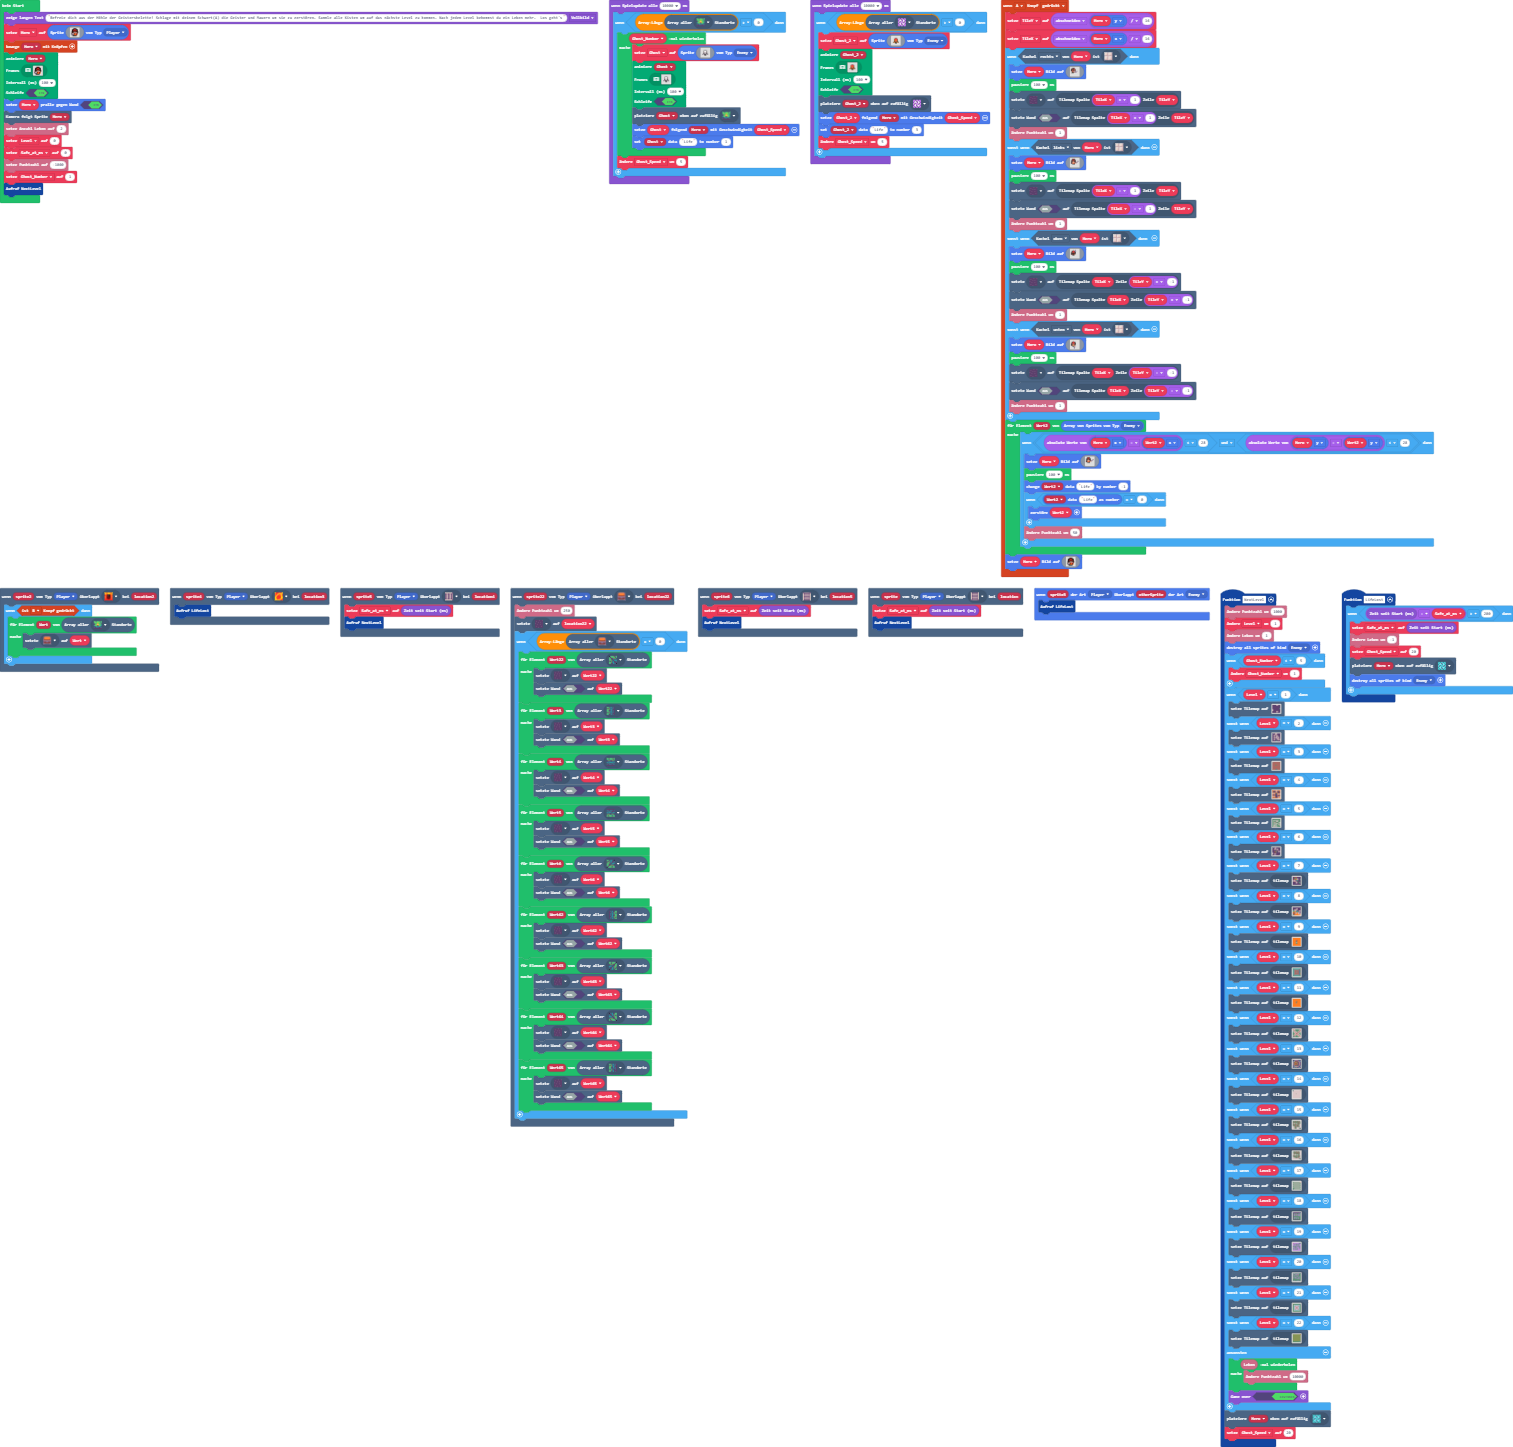
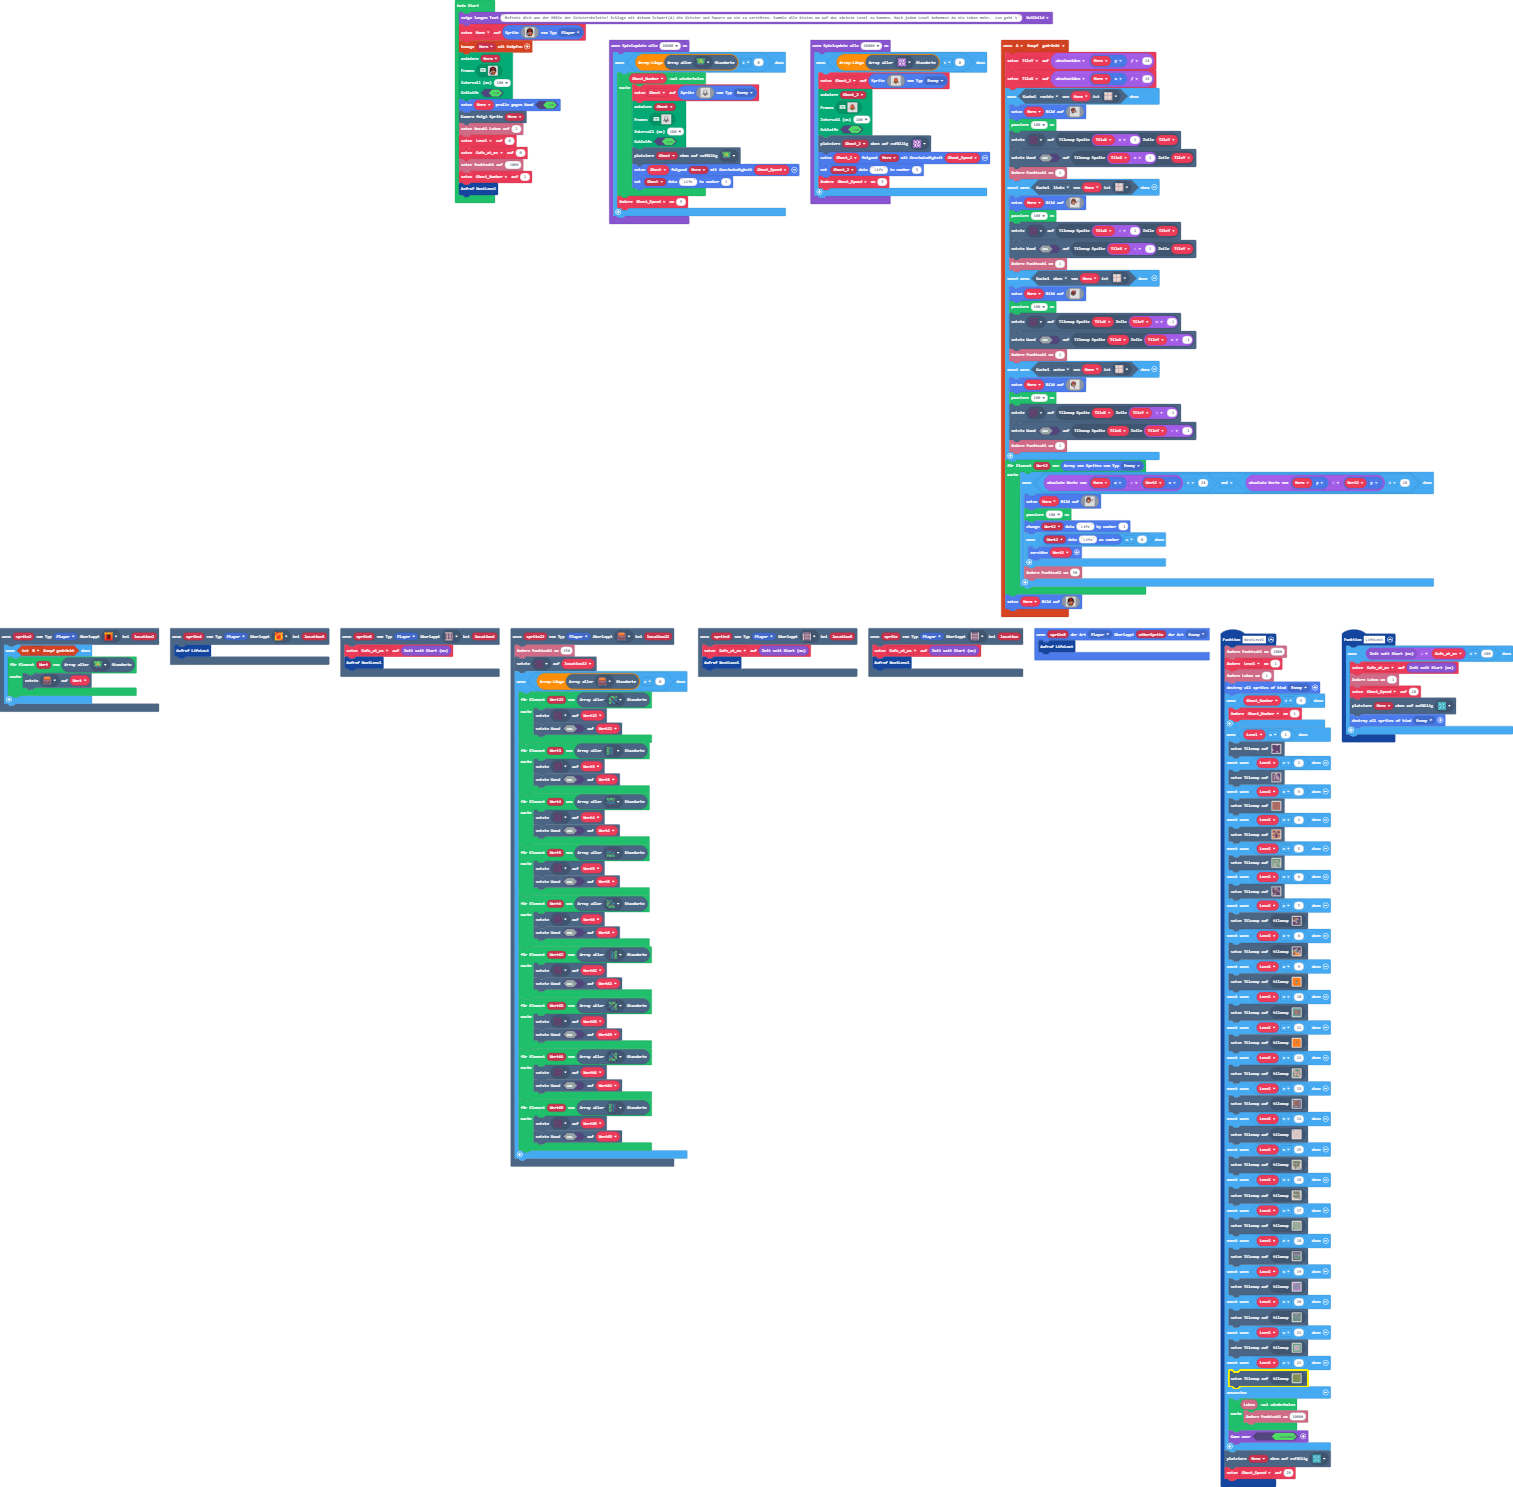
Aktualisiere main.blocks, main.ts, tilemap.g.jres, tilemap.g.ts, images.g.jres, images.g.ts, main.py

Changed region(s): [[0.0, 0.0, 1.0, 0.9952]]

diff --git a/tilemap.g.ts b/tilemap.g.ts
@@ -393,25 +393,6 @@ namespace myTiles {
 . . . . . . . . . . . . . . . . 
 . . . . . . . . . . . . . . . . 
 `, [myTiles.transparency16,myTiles.tile2,myTiles.tile3,sprites.dungeon.greenOuterNorth2,sprites.dungeon.stairNorth,sprites.dungeon.greenOuterSouthEast,sprites.dungeon.greenOuterSouthWest,sprites.dungeon.greenOuterWest0,sprites.dungeon.greenOuterEast0,sprites.dungeon.collectibleInsignia,sprites.dungeon.greenOuterSouth0], TileScale.Sixteen);
-            case "Level20":
-            case "Level20":return tiles.createTilemap(hex`1000100000000000000000000000000000000000000000000000000000000000000000000000000000000000000000000000000000000000000000000000000000000000000000000000000000000000000000000000000000000000000000000000000000000000000000000000000000000000000000000000000000000000000000000000000000000000000000000000000000000000000000000000000000000000000000000000000000000000000000000000000000000000000000000000000000000000000000000000000000000000000000000000000000000000000000000000000000000000000000000000000000000000000000000000000000000000`, img`
-. . . . . . . . . . . . . . . . 
-. . . . . . . . . . . . . . . . 
-. . . . . . . . . . . . . . . . 
-. . . . . . . . . . . . . . . . 
-. . . . . . . . . . . . . . . . 
-. . . . . . . . . . . . . . . . 
-. . . . . . . . . . . . . . . . 
-. . . . . . . . . . . . . . . . 
-. . . . . . . . . . . . . . . . 
-. . . . . . . . . . . . . . . . 
-. . . . . . . . . . . . . . . . 
-. . . . . . . . . . . . . . . . 
-. . . . . . . . . . . . . . . . 
-. . . . . . . . . . . . . . . . 
-. . . . . . . . . . . . . . . . 
-. . . . . . . . . . . . . . . . 
-`, [myTiles.transparency16], TileScale.Sixteen);
             case "Level_21":
[1 lines of base64/hex data omitted]
 . . . . . . . . . . . . . 2 . 2 
@@ -431,8 +412,46 @@ namespace myTiles {
 . . . . . . . . . . . . . . . . 
 . . . . . . . . . . . . . . . . 
 `, [myTiles.transparency16,myTiles.tile1,myTiles.tile2,myTiles.tile3,sprites.dungeon.collectibleInsignia,sprites.dungeon.chestClosed,sprites.dungeon.greenOuterNorth2,sprites.dungeon.stairNorth,sprites.dungeon.greenOuterSouthEast,sprites.dungeon.greenOuterSouth0,sprites.dungeon.greenOuterSouthWest,sprites.dungeon.greenOuterWest0,sprites.dungeon.greenOuterEast0], TileScale.Sixteen);
-            case "Level_22":
-            case "Level_22":return tiles.createTilemap(hex`1000100000000000000000000000000000000000000000000000000000000000000000000000000000000000000000000000000000000000000000000000000000000000000000000000000000000000000000000000000000000000000000000000000000000000000000000000000000000000000000000000000000000000000000000000000000000000000000000000000000000000000000000000000000000000000000000000000000000000000000000000000000000000000000000000000000000000000000000000000000000000000000000000000000000000000000000000000000000000000000000000000000000000000000000000000000000000`, img`
+            case "Level21":
+            case "Level21":return tiles.createTilemap(hex`1000100000000000000000000000000000000000000000000000000000000000000000000000000000000000000000000000000000000000000000000000000000000000000000000000000000000000000000000000000000000000000000000000000000000000000000000000000000000000000000000000000000000000000000000000000000000000000000000000000000000000000000000000000000000000000000000000000000000000000000000000000000000000000000000000000000000000000000000000000000000000000000000000000000000000000000000000000000000000000000000000000000000000000000000000000000000000`, img`
+. . . . . . . . . . . . . . . . 
+. . . . . . . . . . . . . . . . 
+. . . . . . . . . . . . . . . . 
+. . . . . . . . . . . . . . . . 
+. . . . . . . . . . . . . . . . 
+. . . . . . . . . . . . . . . . 
+. . . . . . . . . . . . . . . . 
+. . . . . . . . . . . . . . . . 
+. . . . . . . . . . . . . . . . 
+. . . . . . . . . . . . . . . . 
+. . . . . . . . . . . . . . . . 
+. . . . . . . . . . . . . . . . 
+. . . . . . . . . . . . . . . . 
+. . . . . . . . . . . . . . . . 
+. . . . . . . . . . . . . . . . 
+. . . . . . . . . . . . . . . . 
+`, [], -Infinity);
+            case "Level20":
+            case "Level20":return tiles.createTilemap(hex`1000100000000000000000000000000000000000000000000000000000000000000000000000000000000000000000000000000000000000000000000000000000000000000000000000000000000000000000000000000000000000000000000000000000000000000000000000000000000000000000000000000000000000000000000000000000000000000000000000000000000000000000000000000000000000000000000000000000000000000000000000000000000000000000000000000000000000000000000000000000000000000000000000000000000000000000000000000000000000000000000000000000000000000000000000000000000000`, img`
+. . . . . . . . . . . . . . . . 
+. . . . . . . . . . . . . . . . 
+. . . . . . . . . . . . . . . . 
+. . . . . . . . . . . . . . . . 
+. . . . . . . . . . . . . . . . 
+. . . . . . . . . . . . . . . . 
+. . . . . . . . . . . . . . . . 
+. . . . . . . . . . . . . . . . 
+. . . . . . . . . . . . . . . . 
+. . . . . . . . . . . . . . . . 
+. . . . . . . . . . . . . . . . 
+. . . . . . . . . . . . . . . . 
+. . . . . . . . . . . . . . . . 
+. . . . . . . . . . . . . . . . 
+. . . . . . . . . . . . . . . . 
+. . . . . . . . . . . . . . . . 
+`, [], -Infinity);
+            case "Level22":
+            case "Level22":return tiles.createTilemap(hex`1000100000000000000000000000000000000000000000000000000000000000000000000000000000000000000000000000000000000000000000000000000000000000000000000000000000000000000000000000000000000000000000000000000000000000000000000000000000000000000000000000000000000000000000000000000000000000000000000000000000000000000000000000000000000000000000000000000000000000000000000000000000000000000000000000000000000000000000000000000000000000000000000000000000000000000000000000000000000000000000000000000000000000000000000000000000000000`, img`
 . . . . . . . . . . . . . . . . 
 . . . . . . . . . . . . . . . . 
 . . . . . . . . . . . . . . . . 
@@ -450,7 +469,7 @@ namespace myTiles {
 . . . . . . . . . . . . . . . . 
 . . . . . . . . . . . . . . . . 
 `, [myTiles.transparency16], TileScale.Sixteen);
-            case "Level_0":
+            case "Level_22":
             case "Level24":return tiles.createTilemap(hex`1000100007070707070707070707070707070701070202020202020202020202020202020707070707070707070707070707070702020202020202020202020202020207070707070707070707070707070707070702020202020202020202020202020207070707070707070707070707070707020202020202020202020202020202070707070707070707070707070707070707020202020202020202020202020202070707070707070707070707070707070202020202020202020202020202020707070707070707070707070707070707070202020202020202020202020202020707070707070707070707070707050607070707070707070707070707080403`, img`
 . . . . . . . . . . . . . . . . 
 . 2 2 2 2 2 2 2 2 2 2 2 2 2 2 2 
@@ -469,6 +488,25 @@ namespace myTiles {
 . . . . . . . . . . . . . . 2 2 
 . . . . . . . . . . . . . . 2 . 
 `, [myTiles.transparency16,myTiles.tile2,myTiles.tile4,sprites.dungeon.stairSouth,sprites.dungeon.greenOuterWest0,sprites.dungeon.greenOuterNorthWest,sprites.dungeon.greenOuterNorth0,sprites.dungeon.greenOuterNorth2,sprites.dungeon.collectibleInsignia], TileScale.Sixteen);
+            case "Level23":
+            case "Level23":return tiles.createTilemap(hex`1000100000000000000000000000000000000000000000000000000000000000000000000000000000000000000000000000000000000000000000000000000000000000000000000000000000000000000000000000000000000000000000000000000000000000000000000000000000000000000000000000000000000000000000000000000000000000000000000000000000000000000000000000000000000000000000000000000000000000000000000000000000000000000000000000000000000000000000000000000000000000000000000000000000000000000000000000000000000000000000000000000000000000000000000000000000000000`, img`
+. . . . . . . . . . . . . . . . 
+. . . . . . . . . . . . . . . . 
+. . . . . . . . . . . . . . . . 
+. . . . . . . . . . . . . . . . 
+. . . . . . . . . . . . . . . . 
+. . . . . . . . . . . . . . . . 
+. . . . . . . . . . . . . . . . 
+. . . . . . . . . . . . . . . . 
+. . . . . . . . . . . . . . . . 
+. . . . . . . . . . . . . . . . 
+. . . . . . . . . . . . . . . . 
+. . . . . . . . . . . . . . . . 
+. . . . . . . . . . . . . . . . 
+. . . . . . . . . . . . . . . . 
+. . . . . . . . . . . . . . . . 
+. . . . . . . . . . . . . . . . 
+`, [], -Infinity);
         }
         return null;
     })

diff --git a/main.ts b/main.ts
@@ -156,7 +156,7 @@ function NextLevel () {
     } else if (Level == 21) {
         tiles.setCurrentTilemap(tilemap`Level_21`)
     } else if (Level == 22) {
-        tiles.setCurrentTilemap(tilemap`Level_0`)
+        tiles.setCurrentTilemap(tilemap`Level_22`)
     } else {
         for (let index = 0; index < info.life(); index++) {
             info.changeScoreBy(10000)

diff --git a/images.g.ts b/images.g.ts
@@ -370,8 +370,7 @@ fcf.f222222f44ee........
 
     helpers._registerFactory("song", function(name: string) {
         switch(helpers.stringTrim(name)) {
-            case "song1":
-            case "meinLied":return hex`00780004080200`;
+
         }
         return null;
     })

diff --git a/main.py b/main.py
@@ -1,3 +1,103 @@
+
+Ghost_2: Sprite = None
+Ghost: Sprite = None
+Ghost_Speed = 0
+TileX = 0
+TileY = 0
+Ghost_Number = 0
+Safe_at_ms = 0
+Level = 0
+Hero: Sprite = None
+game.show_long_text("Befreie dich aus der Höhle der Geisterskelette! Schlage mit deinem Schwert(A) die Geister und Mauern um sie zu zerstören. Sammle alle Kisten um auf das nächste Level zu kommen. Nach jedem Level bekommst du ein Leben mehr.  Los geht´s",
+    DialogLayout.FULL)
+Hero = sprites.create(assets.image("""
+    Normal
+"""), SpriteKind.player)
+controller.move_sprite(Hero)
+animation.run_image_animation(Hero,
+    [img("""
+            . . . . . . f f f f . . . . . .
+                . . . . f f f 2 2 f f f . . . .
+                . . . f f f 2 2 2 2 f f f . . .
+                . . f f f e e e e e e f f f . .
+                . . f f e 2 2 2 2 2 2 e e f . .
+                . . f e 2 f f f f f f 2 e f . .
+                . . f f f f e e e e f f f f . .
+                . f f e f b f 4 4 f b f e f f .
+                . f e e 4 1 f d d f 1 4 e e f .
+                . . f f f f d d d d d e e f . .
+                . f d d d d f 4 4 4 e e f . . .
+                . f b b b b f 2 2 2 2 f 4 e . .
+                . f b b b b f 2 2 2 2 f d 4 . .
+                . . f c c f 4 5 5 4 4 f 4 4 . .
+                . . . f f f f f f f f . . . . .
+                . . . . . f f . . f f . . . . .
+        """),
+        img("""
+            . . . . . . . . . . . . . . . .
+                . . . . . . f f f f . . . . . .
+                . . . . f f f 2 2 f f f . . . .
+                . . . f f f 2 2 2 2 f f f . . .
+                . . f f f e e e e e e f f f . .
+                . . f f e 2 2 2 2 2 2 e e f . .
+                . f f e 2 f f f f f f 2 e f f .
+                . f f f f f e e e e f f f f f .
+                . . f e f b f 4 4 f b f e f . .
+                . f f e 4 1 f d d f 1 4 e f . .
+                f d f f e 4 d d d d 4 e f e . .
+                f b f e f 2 2 2 2 e d d 4 e . .
+                f b f 4 f 2 2 2 2 e d d e . . .
+                f c f . f 4 4 5 5 f e e . . . .
+                . f f . f f f f f f f . . . . .
+                . . . . f f f . . . . . . . . .
+        """),
+        img("""
+            . . . . . . . . . . . . . . . .
+                . . . . . . f f f f . . . . . .
+                . . . . f f f 2 2 f f f . . . .
+                . . . f f f 2 2 2 2 f f f . . .
+                . . f f f e e e e e e f f f . .
+                . . f e e 2 2 2 2 2 2 e f f . .
+                . f f e 2 f f f f f f 2 e f f .
+                . f f f f f e e e e f f f f f .
+                . . f e f b f 4 4 f b f e f . .
+                . . f e 4 1 f d d f 1 4 e f . .
+                . . e f f f f d d d 4 e f . . .
+                . . f d d d d f 2 2 2 f e f . .
+                . . f b b b b f 2 2 2 f 4 e . .
+                . . f b b b b f 5 4 4 f . . . .
+                . . . f c c f f f f f f . . . .
+                . . . . f f . . . f f f . . . .
+        """),
+        img("""
+            . . . . . . . . . . . . . . . .
+                . . . . . . f f f f . . . . . .
+                . . . . f f f 2 2 f f f . . . .
+                . . . f f f 2 2 2 2 f f f . . .
+                . . f f f e e e e e e f f f . .
+                . . f e e 2 2 2 2 2 2 e f f . .
+                . f f e 2 f f f f f f 2 e f f .
+                . f f f f f e e e e f f f f f .
+                . . f e f b f 4 4 f b f e f . .
+                . . f e 4 1 f d d f 1 4 e f f .
+                . . e f e 4 d d d d 4 e f f d f
+                . . e 4 d d e 2 2 2 2 f e f b f
+                . . . e d d e 2 2 2 2 f 4 f b f
+                . . . . e e f 5 5 4 4 f . f c f
+                . . . . . f f f f f f f . f f .
+                . . . . . . . . . f f f . . . .
+        """)],
+    100,
+    True)
+Hero.set_bounce_on_wall(True)
+scene.camera_follow_sprite(Hero)
+info.set_life(2)
+Level = 0
+Safe_at_ms = 0
+info.set_score(-1000)
+Ghost_Number = 1
+NextLevel()
+
 def on_overlap_tile(sprite, location):
     global Safe_at_ms
     Safe_at_ms = game.runtime()
@@ -225,9 +325,7 @@ def NextLevel():
             Level_21
         """))
     elif Level == 22:
-        tiles.set_current_tilemap(tilemap("""
-            Level_0
-        """))
+        tiles.set_current_tilemap(tilemap("""Level_0"""))
     else:
         for index in range(info.life()):
             info.change_score_by(10000)
@@ -250,105 +348,6 @@ def on_overlap_tile6(sprite4, location3):
 scene.on_overlap_tile(SpriteKind.player,
     sprites.dungeon.hazard_lava0,
     on_overlap_tile6)
-
-Ghost_2: Sprite = None
-Ghost: Sprite = None
-Ghost_Speed = 0
-TileX = 0
-TileY = 0
-Ghost_Number = 0
-Safe_at_ms = 0
-Level = 0
-Hero: Sprite = None
-game.show_long_text("Befreie dich aus der Höhle der Geisterskelette! Schlage mit deinem Schwert(A) die Geister und Mauern um sie zu zerstören. Sammle alle Kisten um auf das nächste Level zu kommen. Nach jedem Level bekommst du ein Leben mehr.  Los geht´s",
-    DialogLayout.FULL)
-Hero = sprites.create(assets.image("""
-    Normal
-"""), SpriteKind.player)
-controller.move_sprite(Hero)
-animation.run_image_animation(Hero,
-    [img("""
-            . . . . . . f f f f . . . . . . 
-                . . . . f f f 2 2 f f f . . . . 
-                . . . f f f 2 2 2 2 f f f . . . 
-                . . f f f e e e e e e f f f . . 
-                . . f f e 2 2 2 2 2 2 e e f . . 
-                . . f e 2 f f f f f f 2 e f . . 
-                . . f f f f e e e e f f f f . . 
-                . f f e f b f 4 4 f b f e f f . 
-                . f e e 4 1 f d d f 1 4 e e f . 
-                . . f f f f d d d d d e e f . . 
-                . f d d d d f 4 4 4 e e f . . . 
-                . f b b b b f 2 2 2 2 f 4 e . . 
-                . f b b b b f 2 2 2 2 f d 4 . . 
-                . . f c c f 4 5 5 4 4 f 4 4 . . 
-                . . . f f f f f f f f . . . . . 
-                . . . . . f f . . f f . . . . .
-        """),
-        img("""
-            . . . . . . . . . . . . . . . . 
-                . . . . . . f f f f . . . . . . 
-                . . . . f f f 2 2 f f f . . . . 
-                . . . f f f 2 2 2 2 f f f . . . 
-                . . f f f e e e e e e f f f . . 
-                . . f f e 2 2 2 2 2 2 e e f . . 
-                . f f e 2 f f f f f f 2 e f f . 
-                . f f f f f e e e e f f f f f . 
-                . . f e f b f 4 4 f b f e f . . 
-                . f f e 4 1 f d d f 1 4 e f . . 
-                f d f f e 4 d d d d 4 e f e . . 
-                f b f e f 2 2 2 2 e d d 4 e . . 
-                f b f 4 f 2 2 2 2 e d d e . . . 
-                f c f . f 4 4 5 5 f e e . . . . 
-                . f f . f f f f f f f . . . . . 
-                . . . . f f f . . . . . . . . .
-        """),
-        img("""
-            . . . . . . . . . . . . . . . . 
-                . . . . . . f f f f . . . . . . 
-                . . . . f f f 2 2 f f f . . . . 
-                . . . f f f 2 2 2 2 f f f . . . 
-                . . f f f e e e e e e f f f . . 
-                . . f e e 2 2 2 2 2 2 e f f . . 
-                . f f e 2 f f f f f f 2 e f f . 
-                . f f f f f e e e e f f f f f . 
-                . . f e f b f 4 4 f b f e f . . 
-                . . f e 4 1 f d d f 1 4 e f . . 
-                . . e f f f f d d d 4 e f . . . 
-                . . f d d d d f 2 2 2 f e f . . 
-                . . f b b b b f 2 2 2 f 4 e . . 
-                . . f b b b b f 5 4 4 f . . . . 
-                . . . f c c f f f f f f . . . . 
-                . . . . f f . . . f f f . . . .
-        """),
-        img("""
-            . . . . . . . . . . . . . . . . 
-                . . . . . . f f f f . . . . . . 
-                . . . . f f f 2 2 f f f . . . . 
-                . . . f f f 2 2 2 2 f f f . . . 
-                . . f f f e e e e e e f f f . . 
-                . . f e e 2 2 2 2 2 2 e f f . . 
-                . f f e 2 f f f f f f 2 e f f . 
-                . f f f f f e e e e f f f f f . 
-                . . f e f b f 4 4 f b f e f . . 
-                . . f e 4 1 f d d f 1 4 e f f . 
-                . . e f e 4 d d d d 4 e f f d f 
-                . . e 4 d d e 2 2 2 2 f e f b f 
-                . . . e d d e 2 2 2 2 f 4 f b f 
-                . . . . e e f 5 5 4 4 f . f c f 
-                . . . . . f f f f f f f . f f . 
-                . . . . . . . . . f f f . . . .
-        """)],
-    100,
-    True)
-Hero.set_bounce_on_wall(True)
-scene.camera_follow_sprite(Hero)
-info.set_life(2)
-Level = 20
-Safe_at_ms = 0
-info.set_score(-1000)
-Ghost_Number = 1
-NextLevel()
 
 def on_update_interval():
     global Ghost, Ghost_Speed
